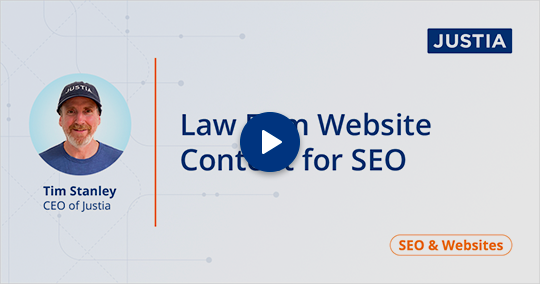
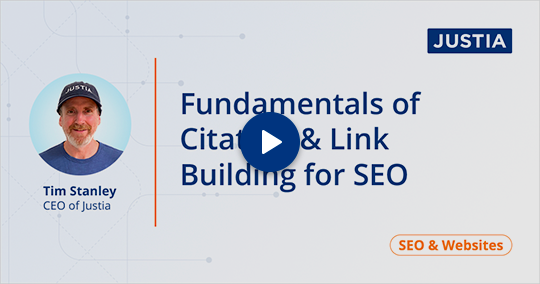
feat: tweaks for registered reminders 1 and 2, and post webinar

Changed region(s): [[0.3259, 0.3099, 0.8, 0.6761]]

diff --git a/dist/post-webinar.html b/dist/post-webinar.html
@@ -88,12 +88,27 @@
         }
       }
       @media only screen and (max-width: 640px) {
+        .justia04 {
+          display: block !important;
+          width: 100% !important;
+        }
         .justia02 {
           display: none !important;
+        }
+        .justia06 {
+          margin: 0 auto !important;
+          text-align: center !important;
+        }
+        .justia05 {
+          padding-bottom: 10px !important;
         }
         .justia01 {
           padding-right: 10px !important;
           padding-left: 10px !important;
+        }
+        .justia07 {
+          padding-top: 10px !important;
+          padding-bottom: 10px !important;
         }
         .justia03 {
           padding-top: 30px !important;
@@ -122,23 +137,20 @@
           <!--[if gte mso 9]><table border="0" cellpadding="0" cellspacing="0" align="center" width="600"><tr><td align="center" valign="top" width="600"><![endif]-->
           <table border="0" cellpadding="0" cellspacing="0" align="center" width="100%" style="max-width:600px;margin:0 auto" bgcolor="#fff">
             <tr>
-              <td background="https://justatic.com/v/2/emails/images/newsletters/2022/07/gray-bg.png" style="background:url(https://justatic.com/v/2/emails/images/newsletters/2022/07/gray-bg.png);background-repeat:no-repeat" align="center" valign="top">
-                <!--[if gte mso 9]><v:rect xmlns:v="urn:schemas-microsoft-com:vml" fill="true" stroke="false" style="width:px;border:0;outline:0;"><v:fill type="tile" src="https://justatic.com/v/2/emails/images/newsletters/2022/07/gray-bg.png" color="" /><v:textbox style="mso-fit-shape-to-text:true" inset="0,0,0,0"><![endif]-->
+              <td background="https://justatic.com/v/3/emails/images/newsletters/2022/07/gray-bg.png" style="background:url(https://justatic.com/v/3/emails/images/newsletters/2022/07/gray-bg.png);background-repeat:no-repeat" align="center" valign="top">
+                <!--[if gte mso 9]><v:rect xmlns:v="urn:schemas-microsoft-com:vml" fill="true" stroke="false" style="width:px;border:0;outline:0;"><v:fill type="tile" src="https://justatic.com/v/3/emails/images/newsletters/2022/07/gray-bg.png" color="" /><v:textbox style="mso-fit-shape-to-text:true" inset="0,0,0,0"><![endif]-->
                 <div>
                   <table border="0" cellpadding="0" cellspacing="0" align="center" width="100%">
                     <tr>
-                      <td class="justia01" style="padding:50px 30px 20px;color:#06357a;font:700 36px/1.15 Arial,sans-serif" align="center">Catch the Replay of Our Most Recent <span>Justia Webinar</span></td>
-                    </tr>
-                    <tr>
-                      <td class="justia01 justia03" style="padding:50px 0 0;padding-top:0!important;padding-bottom:30px" align="center">
-                        <a href="https://www.justia.com" target="_blank" style="text-decoration:none;color:#06357a"><img src="https://justatic.com/v/2/emails/images/newsletters/2022/07/post-webinar.png" alt="Catch the Replay of Our Most Recent Justia Webinar" border="0" style="display:block;max-width:100%" width="540"/></a>
+                      <td class="justia01 justia03" style="padding:50px 0 0;padding-bottom:30px" align="center">
+                        <a href="https://connect.justia.com/webinars/fundamentals-of-citation-link-building-for-seo" target="_blank" style="text-decoration:none;color:#06357a"><img src="https://justatic.com/v/3/emails/images/newsletters/2022/07/post-webinar.png" alt border="0" style="display:block;max-width:100%" width="540"/></a>
                       </td>
                     </tr>
                     <tr>
                       <td class="justia01" style="padding:0 30px 50px" align="center">
                         <div>
-                          <!--[if gte mso 9]><v:roundrect xmlns:v="urn:schemas-microsoft-com:vml" xmlns:w="urn:schemas-microsoft-com:office:word" href="https://www.justia.com" style="width:160px;height:50px;v-text-anchor:middle" arcsize="8%" strokecolor="#e2231a" fillcolor="#e2231a"><w:anchorlock /><center style="color:#ffffff;font:bold 18px Arial,sans-serif">Watch Now</center></v:roundrect><![endif]-->
-                          <a href="https://www.justia.com" style="color:#fff;display:inline-block;border:1px solid #e2231a;border-radius:4px;background-color:#e2231a;width:158px;font:bold 18px/48px Arial,sans-serif;text-align:center;text-decoration:none;-webkit-text-size-adjust:none;mso-hide:all" target="_blank">Watch Now</a>
+                          <!--[if gte mso 9]><v:roundrect xmlns:v="urn:schemas-microsoft-com:vml" xmlns:w="urn:schemas-microsoft-com:office:word" href="https://connect.justia.com/webinars/fundamentals-of-citation-link-building-for-seo" style="width:160px;height:50px;v-text-anchor:middle" arcsize="8%" strokecolor="#e2231a" fillcolor="#e2231a"><w:anchorlock /><center style="color:#ffffff;font:bold 18px Arial,sans-serif">Watch Now</center></v:roundrect><![endif]-->
+                          <a href="https://connect.justia.com/webinars/fundamentals-of-citation-link-building-for-seo" style="color:#fff;display:inline-block;border:1px solid #e2231a;border-radius:4px;background-color:#e2231a;width:158px;font:bold 18px/48px Arial,sans-serif;text-align:center;text-decoration:none;-webkit-text-size-adjust:none;mso-hide:all" target="_blank">Watch Now</a>
                         </div>
                       </td>
                     </tr>
@@ -153,8 +165,8 @@
               <td class="justia01" style="padding:0 30px 50px" align="center">
                 <div style="display:block;border:1px solid #e6e6e6;border-radius:10px;padding:25px">
                   <p style="font:16px/1.5 Arial,sans-serif;margin:0 0 25px;text-align:left;color:#000">{Name},</p>
-                  <p style="font:16px/1.5 Arial,sans-serif;margin:0 0 25px;text-align:left;color:#000">We hope you enjoyed the recent webinar exclusively for Justia Connect members, SEO for Law Firm Websites: Intro to SEO & Website Content.</p>
-                  <p style="font:16px/1.5 Arial,sans-serif;margin:0 0 25px;text-align:left;color:#000">We shared a lot of valuable information about strategies to improve your law firm’s online performance – so much information you may even want to watch it twice. Regardless of whether you were able to attend the live webinar or just couldn’t make it, the recording of the presentation is now available to watch whenever convenient for you!<br /><br /></p>
+                  <p style="font:16px/1.5 Arial,sans-serif;margin:0 0 25px;text-align:left;color:#000">We hope all of you who attended the SEO for Law Firm Websites: Fundamentals of Citation & Link Building webinar enjoyed the presentation and gained lots of valuable insights. If you were unable to attend, we missed you!</p>
+                  <p style="font:16px/1.5 Arial,sans-serif;margin:0 0 25px;text-align:left;color:#000">Whether you are looking to replay the key highlights or want to watch for the first time, the on-demand video of our webinar is now available. Watch it at the office, on the go, or whenever convenient for you!<br /><br /></p>
                   <div style="font:700 20px/1.1 Arial,sans-serif;text-align:left;display:block;margin-bottom:10px">Accessing the Recording</div>
                   <p style="font:16px/1.5 Arial,sans-serif;margin:0 0 25px;text-align:left;color:#000"><b>Justia Connect Pro Members:</b> You do not need to take any additional action to access this recording. It is available in your Justia Connect dashboard and is included as part of your Justia Connect Pro Membership benefits.</p>
                   <div style="padding:25px 30px 15px;text-align:center;padding-top:0;padding-bottom:30px">
@@ -164,12 +176,12 @@
                     </div>
                   </div>
                   <div style="border-top:1px solid #e5e5e5;padding-top:20px">
-                    <p style="font:16px/1.5 Arial,sans-serif;text-align:left;color:#000;margin:0 0"><b>Justia Connect Basic Members:</b> You don’t have to miss out! Upgrade to Justia Connect Pro for as little as $16.65/month,* to watch this recording and unlock all of the great features Justia Connect Pro has to offer! Upgrade today to get access.</p>
+                    <p style="font:16px/1.5 Arial,sans-serif;text-align:left;color:#000;margin:0 0"><b>Justia Connect Basic Members:</b> You don’t have to miss out! Upgrade to Justia Connect Pro for as little as $16.65/month*</p>
                   </div>
                   <div style="padding:25px 30px 15px;text-align:center">
                     <div>
-                      <!--[if gte mso 9]><v:roundrect xmlns:v="urn:schemas-microsoft-com:vml" xmlns:w="urn:schemas-microsoft-com:office:word" href="https://connect.justia.com/webinars/fundamentals-of-citation-link-building-for-seo" style="width:160px;height:50px;v-text-anchor:middle" arcsize="8%" strokecolor="#06357a" fillcolor="transparent"><w:anchorlock /><center style="color:#06357a;font:bold 16px Arial,sans-serif">Go Pro</center></v:roundrect><![endif]-->
-                      <a href="https://connect.justia.com/webinars/fundamentals-of-citation-link-building-for-seo" style="font-weight:700;display:inline-block;border:1px solid #06357a;border-radius:4px;background-color:transparent;color:#06357a;width:158px;text-align:center;text-decoration:none;-webkit-text-size-adjust:none;mso-hide:all;font:bold 16px/48px Arial,sans-serif" target="_blank">Go Pro</a>
+                      <!--[if gte mso 9]><v:roundrect xmlns:v="urn:schemas-microsoft-com:vml" xmlns:w="urn:schemas-microsoft-com:office:word" href="https://connect.justia.com/pro" style="width:160px;height:50px;v-text-anchor:middle" arcsize="8%" strokecolor="#06357a" fillcolor="transparent"><w:anchorlock /><center style="color:#06357a;font:bold 16px Arial,sans-serif">Go Pro</center></v:roundrect><![endif]-->
+                      <a href="https://connect.justia.com/pro" style="font-weight:700;display:inline-block;border:1px solid #06357a;border-radius:4px;background-color:transparent;color:#06357a;width:158px;text-align:center;text-decoration:none;-webkit-text-size-adjust:none;mso-hide:all;font:bold 16px/48px Arial,sans-serif" target="_blank">Go Pro</a>
                     </div>
                   </div>
                   <div style="color:#333">
@@ -184,8 +196,56 @@
       </tr>
       <tr>
         <td width="100%" height="100%" align="center" valign="top">
-          <!--[if gte mso 9]><table border="0" cellpadding="0" cellspacing="0" align="center" width="600"><tr><td align="center" valign="top" width="600"><!
-          [endif]-->[endif]--><!--[if gte mso 9]></td></tr></table><![endif]-->
+          <!--[if gte mso 9]><table border="0" cellpadding="0" cellspacing="0" align="center" width="600"><tr><td align="center" valign="top" width="600"><![endif]-->
+          <table border="0" cellpadding="0" cellspacing="0" align="center" width="100%" style="max-width:600px;margin:0 auto;clear:both" bgcolor="#fff">
+            <tr>
+              <td class="justia01" style="padding:14px 30px;border-top:1px solid #06357a;border-bottom:1px solid #06357a" align="left" bgcolor="#06357a">
+                <img src="https://justatic.com/v/1/emails/images/spacer.gif" alt="space" class="justia02" border="0" style="opacity:0;margin:0;font-size:0;display:block;max-width:none" width="540" height="1" />
+                <table border="0" cellpadding="0" cellspacing="0" align="center" width="100%" style="max-width:600px;margin:0 auto">
+                  <tr>
+                    <td class="justia04 justia05" width="40%" align="left" valign="middle">
+                      <a href="https://www.justia.com/marketing/?utm_medium=email&utm_campaign=2022-07&utm_source=insights-newsletter&utm_content=image-footer-logo-1" target="_blank" style="color:#00b3e3;text-decoration:none"><img src="https://justatic.com/v/20190705/shared/images/logos/justia-blue.png" alt="Justia" class="justia06" border="0" style="display:block;max-width:none" width="111" height="29"/></a>
+                    </td>
+                    <td class="justia04 justia06" width="60%" align="right" valign="middle">
+                      <p style="margin:0;font:14px/1.45 Arial,sans-serif;color:#fff"><a class="justia04 justia07" href="https://www.justia.com/marketing/" target="_blank" style="text-decoration:none;color:#fff;font:14px/1.45 Arial,sans-serif;white-space:nowrap">Contact Us</a> <span class="justia02" style="margin:0 10px;color:#fff;font:14px/1.45 Arial,sans-serif">|</span> <a class="justia04 justia07" href="*|UNSUB|*" target="_blank" style="text-decoration:none;color:#fff;font:14px/1.45 Arial,sans-serif;white-space:nowrap">Unsubscribe</a> <span class="justia02" style="margin:0 10px;color:#fff;font:14px/1.45 Arial,sans-serif">|</span> <a class="justia04 justia07" href="https://www.justia.com/marketing/privacy-policy/" target="_blank" style="text-decoration:none;color:#fff;font:14px/1.45 Arial,sans-serif;white-space:nowrap">Privacy Policy</a></p>
+                    </td>
+                  </tr>
+                </table>
+              </td>
+            </tr>
+            <tr>
+              <td class="justia01" style="overflow:hidden;padding:28px 30px 15px" align="center">
+                <img src="https://justatic.com/v/1/emails/images/spacer.gif" alt="space" class="justia02" border="0" style="opacity:0;margin:0;font-size:0;display:block;max-width:none" width="540" height="1" />
+                <table border="0" cellpadding="0" cellspacing="0" align="center" width="140" style="max-width:600px;margin:0 auto;text-align:center">
+                  <tr>
+                    <td width="36" height="32" align="left" valign="top">
+                      <a href="https://www.facebook.com/justia" target="_blank" style="color:#00b3e3;text-decoration:none;display:inline-block;vertical-align:middle"><img src="https://lawyers.justia.com/s/facebook-flat-64.png" alt="Facebook" border="0" style="display:block;max-width:none" width="32" height="32"/></a>
+                    </td>
+                    <td width="36" height="32" align="left" valign="top">
+                      <a href="https://twitter.com/justiacom" target="_blank" style="color:#00b3e3;text-decoration:none;display:inline-block;vertical-align:middle"><img src="https://lawyers.justia.com/s/twitter-flat-64.png" alt="Twitter" border="0" style="display:block;max-width:none" width="32" height="32"/></a>
+                    </td>
+                    <td width="36" height="32" align="left" valign="top">
+                      <a href="https://www.linkedin.com/company/justia" target="_blank" style="color:#00b3e3;text-decoration:none;display:inline-block;vertical-align:middle"><img src="https://lawyers.justia.com/s/linkedin-flat-64.png" alt="LinkedIn" border="0" style="display:block;max-width:none" width="32" height="32"/></a>
+                    </td>
+                    <td width="32" height="32" align="left" valign="top">
+                      <a href="https://lawyers.justia.com/organization/justia-inc-16302" target="_blank" style="color:#00b3e3;text-decoration:none;display:inline-block;vertical-align:middle"><img src="https://lawyers.justia.com/s/justia-flat-64.png" alt="Justia" border="0" style="display:block;max-width:none" width="32" height="32"/></a>
+                    </td>
+                  </tr>
+                </table>
+              </td>
+            </tr>
+            <tr>
+              <td class="justia01" style="padding:0 30px 8px" align="center">
+                <p style="margin:0;font:14px/1.45 Arial,sans-serif;color:#000">You are receiving this email because you are a <b>Justia Connect</b> member.<br /></p>
+              </td>
+            </tr>
+            <tr>
+              <td class="justia01" style="padding:0 30px 120px" align="center" valign="top">
+                <p style="margin:0;font:700 14px/1.5 Arial,sans-serif;color:#000"><a href="https://www.justia.com/" target="_blank" style="text-decoration:none;color:#000;font:700 14px/1.5 Arial,sans-serif">Justia</a> <span style="color:#000;font:700 14px/1.5 Arial,sans-serif">|</span> <span class="ios-links-black" style="color:#000;font:700 14px/1.5 Arial,sans-serif">1380 Pear Ave #2B, Mountain View, CA 94043</span></p>
+              </td>
+            </tr>
+          </table>
+          <!--[if gte mso 9]></td></tr></table><![endif]-->
         </td>
       </tr>
     </table>

diff --git a/dist/webinar-unregistered-basic.html b/dist/webinar-unregistered-basic.html
@@ -143,13 +143,13 @@
           <!--[if gte mso 9]><table border="0" cellpadding="0" cellspacing="0" align="center" width="600"><tr><td align="center" valign="top" width="600"><![endif]-->
           <table border="0" cellpadding="0" cellspacing="0" align="center" width="100%" style="max-width:600px;margin:0 auto" bgcolor="#fff">
             <tr>
-              <td background="https://justatic.com/v/2/emails/images/newsletters/2022/07/gray-bg.png" style="background:url(https://justatic.com/v/2/emails/images/newsletters/2022/07/gray-bg.png);background-repeat:no-repeat" align="center" valign="top">
-                <!--[if gte mso 9]><v:rect xmlns:v="urn:schemas-microsoft-com:vml" fill="true" stroke="false" style="width:px;border:0;outline:0;"><v:fill type="tile" src="https://justatic.com/v/2/emails/images/newsletters/2022/07/gray-bg.png" color="" /><v:textbox style="mso-fit-shape-to-text:true" inset="0,0,0,0"><![endif]-->
+              <td background="https://justatic.com/v/3/emails/images/newsletters/2022/07/gray-bg.png" style="background:url(https://justatic.com/v/3/emails/images/newsletters/2022/07/gray-bg.png);background-repeat:no-repeat" align="center" valign="top">
+                <!--[if gte mso 9]><v:rect xmlns:v="urn:schemas-microsoft-com:vml" fill="true" stroke="false" style="width:px;border:0;outline:0;"><v:fill type="tile" src="https://justatic.com/v/3/emails/images/newsletters/2022/07/gray-bg.png" color="" /><v:textbox style="mso-fit-shape-to-text:true" inset="0,0,0,0"><![endif]-->
                 <div>
                   <table border="0" cellpadding="0" cellspacing="0" align="center" width="100%">
                     <tr>
                       <td class="justia01 justia03" style="padding:50px 0 0" align="center">
-                        <a href="https://connect.justia.com/webinars/fundamentals-of-citation-link-building-for-seo" target="_blank" style="text-decoration:none;color:#06357a"><img src="https://justatic.com/v/2/emails/images/newsletters/2022/07/webinar-unregistered.png" alt border="0" style="display:block;max-width:100%" width="540"/></a>
+                        <a href="https://connect.justia.com/webinars/fundamentals-of-citation-link-building-for-seo" target="_blank" style="text-decoration:none;color:#06357a"><img src="https://justatic.com/v/3/emails/images/newsletters/2022/07/webinar-unregistered.png" alt border="0" style="display:block;max-width:100%" width="540"/></a>
                       </td>
                     </tr>
                   </table>
@@ -163,7 +163,7 @@
               <td class="justia01 justia04" style="padding:0 30px 50px" align="center">
                 <table class="justia01" style="display:block;border:1px solid #f2f2f2;border-width:0 1px 1px 1px;border-radius:0 0 5px 5px;padding:10px 38px">
                   <tr>
-                    <td class="justia05" align="center"><img src="https://justatic.com/v/2/emails/images/newsletters/2022/07/megaphone-icon.png" alt="megaphone icon" style="display:block;max-width:100%;margin-left:10px" width="20" /></td>
+                    <td class="justia05" align="center"><img src="https://justatic.com/v/3/emails/images/newsletters/2022/07/megaphone-icon.png" alt="megaphone icon" style="display:block;max-width:100%;margin-left:10px" width="20" /></td>
                     <td style="font:16px/1.1 Arial,sans-serif;display:block;margin-left:10px" align="left">
                       <span style="display:inline-block"><b>Date:</b> August 3rd, 2022 </span><span style="display:inline-block;margin:0 4px">|</span> <span style="display:inline-block"><b>Time:</b> 11:00am PT/2:00pm ET</span>
                     </td>

diff --git a/dist/webinar-unregistered-pro.html b/dist/webinar-unregistered-pro.html
@@ -143,13 +143,13 @@
           <!--[if gte mso 9]><table border="0" cellpadding="0" cellspacing="0" align="center" width="600"><tr><td align="center" valign="top" width="600"><![endif]-->
           <table border="0" cellpadding="0" cellspacing="0" align="center" width="100%" style="max-width:600px;margin:0 auto" bgcolor="#fff">
             <tr>
-              <td background="https://justatic.com/v/2/emails/images/newsletters/2022/07/gray-bg.png" style="background:url(https://justatic.com/v/2/emails/images/newsletters/2022/07/gray-bg.png);background-repeat:no-repeat" align="center" valign="top">
-                <!--[if gte mso 9]><v:rect xmlns:v="urn:schemas-microsoft-com:vml" fill="true" stroke="false" style="width:px;border:0;outline:0;"><v:fill type="tile" src="https://justatic.com/v/2/emails/images/newsletters/2022/07/gray-bg.png" color="" /><v:textbox style="mso-fit-shape-to-text:true" inset="0,0,0,0"><![endif]-->
+              <td background="https://justatic.com/v/3/emails/images/newsletters/2022/07/gray-bg.png" style="background:url(https://justatic.com/v/3/emails/images/newsletters/2022/07/gray-bg.png);background-repeat:no-repeat" align="center" valign="top">
+                <!--[if gte mso 9]><v:rect xmlns:v="urn:schemas-microsoft-com:vml" fill="true" stroke="false" style="width:px;border:0;outline:0;"><v:fill type="tile" src="https://justatic.com/v/3/emails/images/newsletters/2022/07/gray-bg.png" color="" /><v:textbox style="mso-fit-shape-to-text:true" inset="0,0,0,0"><![endif]-->
                 <div>
                   <table border="0" cellpadding="0" cellspacing="0" align="center" width="100%">
                     <tr>
                       <td class="justia01 justia03" style="padding:50px 0 0" align="center">
-                        <a href="https://connect.justia.com/webinars/fundamentals-of-citation-link-building-for-seo" target="_blank" style="text-decoration:none;color:#06357a"><img src="https://justatic.com/v/2/emails/images/newsletters/2022/07/webinar-unregistered.png" alt border="0" style="display:block;max-width:100%" width="540"/></a>
+                        <a href="https://connect.justia.com/webinars/fundamentals-of-citation-link-building-for-seo" target="_blank" style="text-decoration:none;color:#06357a"><img src="https://justatic.com/v/3/emails/images/newsletters/2022/07/webinar-unregistered.png" alt border="0" style="display:block;max-width:100%" width="540"/></a>
                       </td>
                     </tr>
                   </table>
@@ -163,7 +163,7 @@
               <td class="justia01 justia04" style="padding:0 30px 50px" align="center">
                 <table class="justia01" style="display:block;border:1px solid #f2f2f2;border-width:0 1px 1px 1px;border-radius:0 0 5px 5px;padding:10px 38px">
                   <tr>
-                    <td class="justia05" align="center"><img src="https://justatic.com/v/2/emails/images/newsletters/2022/07/megaphone-icon.png" alt="megaphone icon" style="display:block;max-width:100%;margin-left:10px" width="20" /></td>
+                    <td class="justia05" align="center"><img src="https://justatic.com/v/3/emails/images/newsletters/2022/07/megaphone-icon.png" alt="megaphone icon" style="display:block;max-width:100%;margin-left:10px" width="20" /></td>
                     <td style="font:16px/1.1 Arial,sans-serif;display:block;margin-left:10px" align="left">
                       <span style="display:inline-block"><b>Date:</b> August 3rd, 2022 </span><span style="display:inline-block;margin:0 4px">|</span> <span style="display:inline-block"><b>Time:</b> 11:00am PT/2:00pm ET</span>
                     </td>

diff --git a/dist/webinar-unregistered-reminder-1.html b/dist/webinar-unregistered-reminder-1.html
@@ -143,13 +143,13 @@
           <!--[if gte mso 9]><table border="0" cellpadding="0" cellspacing="0" align="center" width="600"><tr><td align="center" valign="top" width="600"><![endif]-->
           <table border="0" cellpadding="0" cellspacing="0" align="center" width="100%" style="max-width:600px;margin:0 auto" bgcolor="#fff">
             <tr>
-              <td background="https://justatic.com/v/2/emails/images/newsletters/2022/07/gray-bg.png" style="background:url(https://justatic.com/v/2/emails/images/newsletters/2022/07/gray-bg.png);background-repeat:no-repeat" align="center" valign="top">
-                <!--[if gte mso 9]><v:rect xmlns:v="urn:schemas-microsoft-com:vml" fill="true" stroke="false" style="width:px;border:0;outline:0;"><v:fill type="tile" src="https://justatic.com/v/2/emails/images/newsletters/2022/07/gray-bg.png" color="" /><v:textbox style="mso-fit-shape-to-text:true" inset="0,0,0,0"><![endif]-->
+              <td background="https://justatic.com/v/3/emails/images/newsletters/2022/07/gray-bg.png" style="background:url(https://justatic.com/v/3/emails/images/newsletters/2022/07/gray-bg.png);background-repeat:no-repeat" align="center" valign="top">
+                <!--[if gte mso 9]><v:rect xmlns:v="urn:schemas-microsoft-com:vml" fill="true" stroke="false" style="width:px;border:0;outline:0;"><v:fill type="tile" src="https://justatic.com/v/3/emails/images/newsletters/2022/07/gray-bg.png" color="" /><v:textbox style="mso-fit-shape-to-text:true" inset="0,0,0,0"><![endif]-->
                 <div>
                   <table border="0" cellpadding="0" cellspacing="0" align="center" width="100%">
                     <tr>
                       <td class="justia01 justia03" style="padding:50px 0 0" align="center">
-                        <a href="https://connect.justia.com/webinars/fundamentals-of-citation-link-building-for-seo" target="_blank" style="text-decoration:none;color:#06357a"><img src="https://justatic.com/v/2/emails/images/newsletters/2022/07/webinar-unregistered.png" alt border="0" style="display:block;max-width:100%" width="540"/></a>
+                        <a href="https://connect.justia.com/webinars/fundamentals-of-citation-link-building-for-seo" target="_blank" style="text-decoration:none;color:#06357a"><img src="https://justatic.com/v/3/emails/images/newsletters/2022/07/webinar-unregistered.png" alt border="0" style="display:block;max-width:100%" width="540"/></a>
                       </td>
                     </tr>
                   </table>
@@ -163,7 +163,7 @@
               <td class="justia01 justia04" style="padding:0 30px 50px" align="center">
                 <table class="justia01" style="display:block;border:1px solid #f2f2f2;border-width:0 1px 1px 1px;border-radius:0 0 5px 5px;padding:10px 38px">
                   <tr>
-                    <td class="justia05" align="center"><img src="https://justatic.com/v/2/emails/images/newsletters/2022/07/megaphone-icon.png" alt="megaphone icon" style="display:block;max-width:100%;margin-left:10px" width="20" /></td>
+                    <td class="justia05" align="center"><img src="https://justatic.com/v/3/emails/images/newsletters/2022/07/megaphone-icon.png" alt="megaphone icon" style="display:block;max-width:100%;margin-left:10px" width="20" /></td>
                     <td style="font:16px/1.1 Arial,sans-serif;display:block;margin-left:10px" align="left">
                       <span style="display:inline-block"><b>Date:</b> August 3rd, 2022 </span><span style="display:inline-block;margin:0 4px">|</span> <span style="display:inline-block"><b>Time:</b> 11:00am PT/2:00pm ET</span>
                     </td>

diff --git a/dist/webinar-unregistered-reminder-2.html b/dist/webinar-unregistered-reminder-2.html
@@ -143,13 +143,13 @@
           <!--[if gte mso 9]><table border="0" cellpadding="0" cellspacing="0" align="center" width="600"><tr><td align="center" valign="top" width="600"><![endif]-->
           <table border="0" cellpadding="0" cellspacing="0" align="center" width="100%" style="max-width:600px;margin:0 auto" bgcolor="#fff">
             <tr>
-              <td background="https://justatic.com/v/2/emails/images/newsletters/2022/07/gray-bg.png" style="background:url(https://justatic.com/v/2/emails/images/newsletters/2022/07/gray-bg.png);background-repeat:no-repeat" align="center" valign="top">
-                <!--[if gte mso 9]><v:rect xmlns:v="urn:schemas-microsoft-com:vml" fill="true" stroke="false" style="width:px;border:0;outline:0;"><v:fill type="tile" src="https://justatic.com/v/2/emails/images/newsletters/2022/07/gray-bg.png" color="" /><v:textbox style="mso-fit-shape-to-text:true" inset="0,0,0,0"><![endif]-->
+              <td background="https://justatic.com/v/3/emails/images/newsletters/2022/07/gray-bg.png" style="background:url(https://justatic.com/v/3/emails/images/newsletters/2022/07/gray-bg.png);background-repeat:no-repeat" align="center" valign="top">
+                <!--[if gte mso 9]><v:rect xmlns:v="urn:schemas-microsoft-com:vml" fill="true" stroke="false" style="width:px;border:0;outline:0;"><v:fill type="tile" src="https://justatic.com/v/3/emails/images/newsletters/2022/07/gray-bg.png" color="" /><v:textbox style="mso-fit-shape-to-text:true" inset="0,0,0,0"><![endif]-->
                 <div>
                   <table border="0" cellpadding="0" cellspacing="0" align="center" width="100%">
                     <tr>
                       <td class="justia01 justia03" style="padding:50px 0 0" align="center">
-                        <a href="https://connect.justia.com/webinars/fundamentals-of-citation-link-building-for-seo" target="_blank" style="text-decoration:none;color:#06357a"><img src="https://justatic.com/v/2/emails/images/newsletters/2022/07/webinar-unregistered.png" alt border="0" style="display:block;max-width:100%" width="540"/></a>
+                        <a href="https://connect.justia.com/webinars/fundamentals-of-citation-link-building-for-seo" target="_blank" style="text-decoration:none;color:#06357a"><img src="https://justatic.com/v/3/emails/images/newsletters/2022/07/webinar-unregistered.png" alt border="0" style="display:block;max-width:100%" width="540"/></a>
                       </td>
                     </tr>
                   </table>
@@ -163,7 +163,7 @@
               <td class="justia01 justia04" style="padding:0 30px 50px" align="center">
                 <table class="justia01" style="display:block;border:1px solid #f2f2f2;border-width:0 1px 1px 1px;border-radius:0 0 5px 5px;padding:10px 38px">
                   <tr>
-                    <td class="justia05" align="center"><img src="https://justatic.com/v/2/emails/images/newsletters/2022/07/megaphone-icon.png" alt="megaphone icon" style="display:block;max-width:100%;margin-left:10px" width="20" /></td>
+                    <td class="justia05" align="center"><img src="https://justatic.com/v/3/emails/images/newsletters/2022/07/megaphone-icon.png" alt="megaphone icon" style="display:block;max-width:100%;margin-left:10px" width="20" /></td>
                     <td style="font:16px/1.1 Arial,sans-serif;display:block;margin-left:10px" align="left">
                       <span style="display:inline-block"><b>Date:</b> August 3rd, 2022 </span><span style="display:inline-block;margin:0 4px">|</span> <span style="display:inline-block"><b>Time:</b> 11:00am PT/2:00pm ET</span>
                     </td>

diff --git a/dist/webinar-registered-reminder-1.html b/dist/webinar-registered-reminder-1.html
@@ -143,13 +143,13 @@
           <!--[if gte mso 9]><table border="0" cellpadding="0" cellspacing="0" align="center" width="600"><tr><td align="center" valign="top" width="600"><![endif]-->
           <table border="0" cellpadding="0" cellspacing="0" align="center" width="100%" style="max-width:600px;margin:0 auto" bgcolor="#fff">
             <tr>
-              <td background="https://justatic.com/v/2/emails/images/newsletters/2022/07/gray-bg.png" style="background:url(https://justatic.com/v/2/emails/images/newsletters/2022/07/gray-bg.png);background-repeat:no-repeat" align="center" valign="top">
-                <!--[if gte mso 9]><v:rect xmlns:v="urn:schemas-microsoft-com:vml" fill="true" stroke="false" style="width:px;border:0;outline:0;"><v:fill type="tile" src="https://justatic.com/v/2/emails/images/newsletters/2022/07/gray-bg.png" color="" /><v:textbox style="mso-fit-shape-to-text:true" inset="0,0,0,0"><![endif]-->
+              <td background="https://justatic.com/v/3/emails/images/newsletters/2022/07/gray-bg.png" style="background:url(https://justatic.com/v/3/emails/images/newsletters/2022/07/gray-bg.png);background-repeat:no-repeat" align="center" valign="top">
+                <!--[if gte mso 9]><v:rect xmlns:v="urn:schemas-microsoft-com:vml" fill="true" stroke="false" style="width:px;border:0;outline:0;"><v:fill type="tile" src="https://justatic.com/v/3/emails/images/newsletters/2022/07/gray-bg.png" color="" /><v:textbox style="mso-fit-shape-to-text:true" inset="0,0,0,0"><![endif]-->
                 <div>
                   <table border="0" cellpadding="0" cellspacing="0" align="center" width="100%">
                     <tr>
                       <td class="justia01 justia03" style="padding:50px 0 0" align="center">
-                        <a href="https://connect.justia.com/webinars/fundamentals-of-citation-link-building-for-seo" target="_blank" style="text-decoration:none;color:#06357a"><img src="https://justatic.com/v/2/emails/images/newsletters/2022/07/webinar-registered.png" alt border="0" style="display:block;max-width:100%" width="540"/></a>
+                        <a href="https://connect.justia.com/webinars/fundamentals-of-citation-link-building-for-seo" target="_blank" style="text-decoration:none;color:#06357a"><img src="https://justatic.com/v/3/emails/images/newsletters/2022/07/webinar-registered.png" alt border="0" style="display:block;max-width:100%" width="540"/></a>
                       </td>
                     </tr>
                   </table>
@@ -163,7 +163,7 @@
               <td class="justia01 justia04" style="padding:0 30px 50px" align="center">
                 <table class="justia01" style="display:block;border:1px solid #f2f2f2;border-width:0 1px 1px 1px;border-radius:0 0 5px 5px;padding:10px 38px">
                   <tr>
-                    <td class="justia05" align="center"><img src="https://justatic.com/v/2/emails/images/newsletters/2022/07/megaphone-icon.png" alt="megaphone icon" style="display:block;max-width:100%;margin-left:10px" width="20" /></td>
+                    <td class="justia05" align="center"><img src="https://justatic.com/v/3/emails/images/newsletters/2022/07/megaphone-icon.png" alt="megaphone icon" style="display:block;max-width:100%;margin-left:10px" width="20" /></td>
                     <td style="font:16px/1.1 Arial,sans-serif;display:block;margin-left:10px" align="left">
                       <span style="display:inline-block"><b>Date:</b> August 3, 2022 </span><span style="display:inline-block;margin:0 4px">|</span> <span style="display:inline-block"><b>Time:</b> 11:00am PT/2:00pm ET</span>
                     </td>

diff --git a/dist/webinar-registered-reminder-2.html b/dist/webinar-registered-reminder-2.html
@@ -143,13 +143,13 @@
           <!--[if gte mso 9]><table border="0" cellpadding="0" cellspacing="0" align="center" width="600"><tr><td align="center" valign="top" width="600"><![endif]-->
           <table border="0" cellpadding="0" cellspacing="0" align="center" width="100%" style="max-width:600px;margin:0 auto" bgcolor="#fff">
             <tr>
-              <td background="https://justatic.com/v/2/emails/images/newsletters/2022/07/gray-bg.png" style="background:url(https://justatic.com/v/2/emails/images/newsletters/2022/07/gray-bg.png);background-repeat:no-repeat" align="center" valign="top">
-                <!--[if gte mso 9]><v:rect xmlns:v="urn:schemas-microsoft-com:vml" fill="true" stroke="false" style="width:px;border:0;outline:0;"><v:fill type="tile" src="https://justatic.com/v/2/emails/images/newsletters/2022/07/gray-bg.png" color="" /><v:textbox style="mso-fit-shape-to-text:true" inset="0,0,0,0"><![endif]-->
+              <td background="https://justatic.com/v/3/emails/images/newsletters/2022/07/gray-bg.png" style="background:url(https://justatic.com/v/3/emails/images/newsletters/2022/07/gray-bg.png);background-repeat:no-repeat" align="center" valign="top">
+                <!--[if gte mso 9]><v:rect xmlns:v="urn:schemas-microsoft-com:vml" fill="true" stroke="false" style="width:px;border:0;outline:0;"><v:fill type="tile" src="https://justatic.com/v/3/emails/images/newsletters/2022/07/gray-bg.png" color="" /><v:textbox style="mso-fit-shape-to-text:true" inset="0,0,0,0"><![endif]-->
                 <div>
                   <table border="0" cellpadding="0" cellspacing="0" align="center" width="100%">
                     <tr>
                       <td class="justia01 justia03" style="padding:50px 0 0" align="center">
-                        <a href="https://connect.justia.com/webinars/fundamentals-of-citation-link-building-for-seo" target="_blank" style="text-decoration:none;color:#06357a"><img src="https://justatic.com/v/2/emails/images/newsletters/2022/07/webinar-registered.png" alt border="0" style="display:block;max-width:100%" width="540"/></a>
+                        <a href="https://connect.justia.com/webinars/fundamentals-of-citation-link-building-for-seo" target="_blank" style="text-decoration:none;color:#06357a"><img src="https://justatic.com/v/3/emails/images/newsletters/2022/07/webinar-registered.png" alt border="0" style="display:block;max-width:100%" width="540"/></a>
                       </td>
                     </tr>
                   </table>
@@ -163,7 +163,7 @@
               <td class="justia01 justia04" style="padding:0 30px 50px" align="center">
                 <table class="justia01" style="display:block;border:1px solid #f2f2f2;border-width:0 1px 1px 1px;border-radius:0 0 5px 5px;padding:10px 38px">
                   <tr>
-                    <td class="justia05" align="center"><img src="https://justatic.com/v/2/emails/images/newsletters/2022/07/megaphone-icon.png" alt="megaphone icon" style="display:block;max-width:100%;margin-left:10px" width="20" /></td>
+                    <td class="justia05" align="center"><img src="https://justatic.com/v/3/emails/images/newsletters/2022/07/megaphone-icon.png" alt="megaphone icon" style="display:block;max-width:100%;margin-left:10px" width="20" /></td>
                     <td style="font:16px/1.1 Arial,sans-serif;display:block;margin-left:10px" align="left">
                       <span style="display:inline-block"><b>Date:</b> August 3, 2022 </span><span style="display:inline-block;margin:0 4px">|</span> <span style="display:inline-block"><b>Time:</b> 11:00am PT/2:00pm ET</span>
                     </td>
